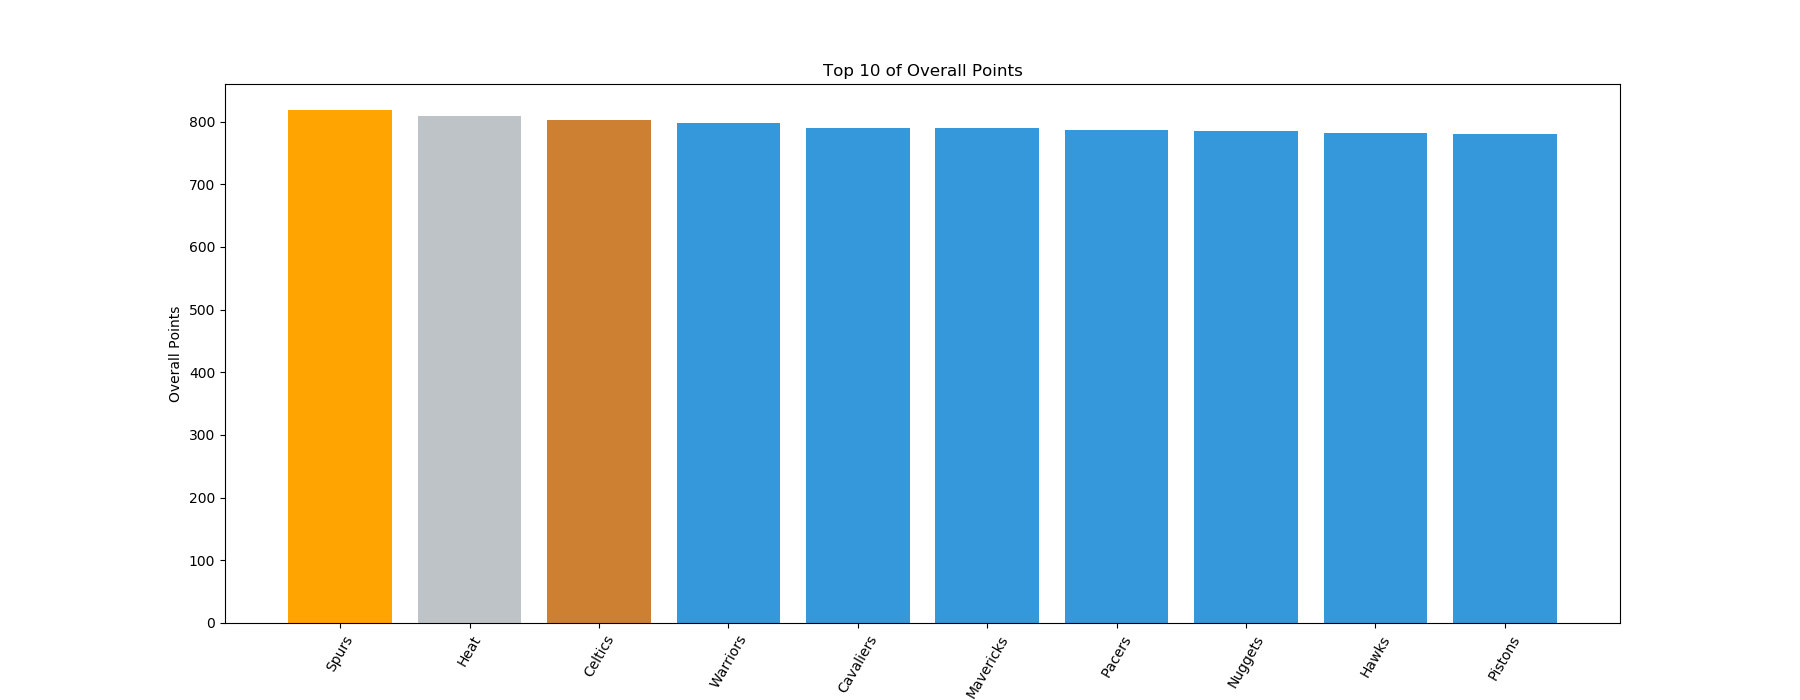
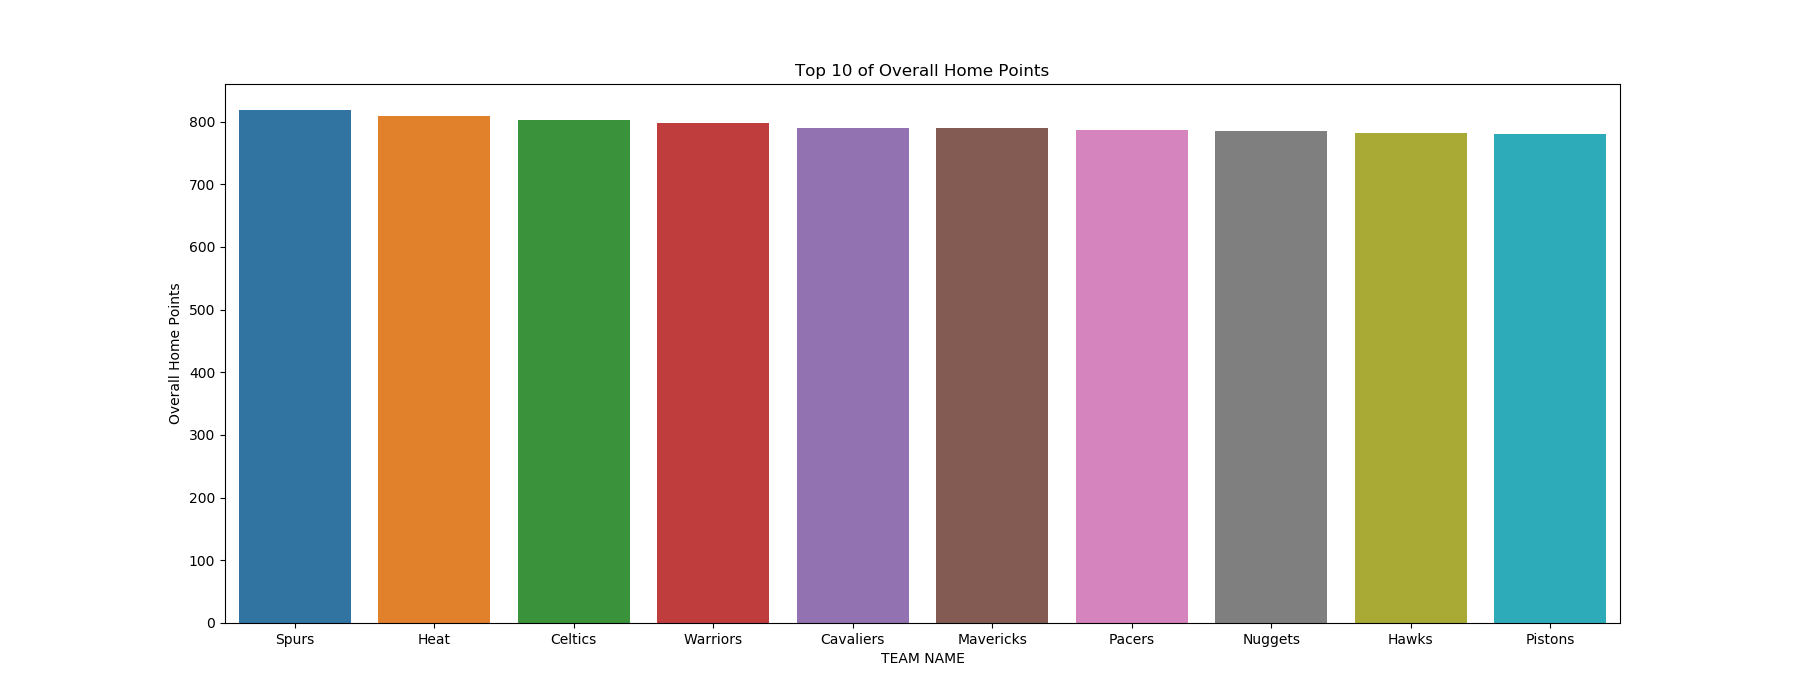
Update

diff --git a/DataVisualization/team_stats.py b/DataVisualization/team_stats.py
@@ -27,39 +27,39 @@ print(trans)
 games_est["HOME_TEAM_ID"] = games_est["HOME_TEAM_ID"].replace(trans)
 games_est["VISITOR_TEAM_ID"] = games_est["VISITOR_TEAM_ID"].replace(trans)
 
-def team_stats(stat, column, label_col=None, max_plot=5):
+def team_stats(df, column, label_col=None, max_plot=5):
     # Plotting function for the main statistical categories in games.csv
     # Draws top-10 teams for the given stat_category since 2004
     # Argument 'stat' refers to the exact names of the labels of games.csv
 
     # Select which category to study further.
-    team_cat = np.where(games[stat] == 1, games['HOME_TEAM_ID'], games['VISITOR_TEAM_ID'])
-    team_cat = pd.DataFrame(team_cat, columns=['TEAM_ID'])
-    team_cat = team_cat.merge(teams[['TEAM_ID', 'NICKNAME']], on='TEAM_ID')[
-        'NICKNAME'].value_counts().to_frame().reset_index()
-    team_cat.columns = ['TEAM NAME', column]
-    print(team_cat)
+    # team_cat = np.where(games[stat] == 1, games['HOME_TEAM_ID'], games['VISITOR_TEAM_ID'])
+    # team_cat = pd.DataFrame(team_cat, columns=['TEAM_ID'])
+    # team_cat = team_cat.merge(teams[['TEAM_ID', 'NICKNAME']], on='TEAM_ID')[
+    #     'NICKNAME'].value_counts().to_frame().reset_index()
+    # team_cat.columns = ['TEAM NAME', column]
+    # print(team_cat)
 
-    top_df = team_cat.sort_values(column, ascending=False).head(max_plot)
+    top_df = df.sort_values(column, ascending=False).head(max_plot)
     height = top_df[column]
     if label_col is None:
         x = top_df.index
     else:
         x = top_df[label_col]
     gold, silver, bronze, other = ('#FFA400', '#bdc3c7', '#cd7f32', '#3498db')
-    # colors = [gold if i == 0 else silver if i == 1 else bronze if i == 2 else other for i in range(0, len(top_df))]
+    colors = [gold if i == 0 else silver if i == 1 else bronze if i == 2 else other for i in range(0, len(top_df))]
     fig, ax = plt.subplots(figsize=(18, 7))
-    # ax.bar(x, height, color=colors)
-    # plt.xticks(x, x, rotation=60)
+    ax.bar(x, height, color=colors)
+    plt.xticks(x, x, rotation=60)
     plt.xlabel(label_col)
     plt.ylabel(column)
     plt.title(f'Top {max_plot} of {column}')
-    # plt.show()
-    ax = sns.barplot(x, height)
-    # for i, (value, name) in enumerate(zip(team_cat, team_cat.columns)):
-    #     ax.text(value, i - .05, f'{value:,.0f}', size=10, ha='left', va='center')
-    ax.set(xlabel=label_col, ylabel=column)
     plt.show()
+    # ax = sns.barplot(x, height)
+    # # for i, (value, name) in enumerate(zip(team_cat, team_cat.columns)):
+    # #     ax.text(value, i - .05, f'{value:,.0f}', size=10, ha='left', va='center')
+    # ax.set(xlabel=label_col, ylabel=column)
+    # plt.show()
 
 # Maybe process some Team overall stats as wins,losses etc.
 # winning_teams = np.where(games['HOME_TEAM_WINS'] == 1, games['HOME_TEAM_ID'], games['VISITOR_TEAM_ID'])
@@ -68,10 +68,10 @@ def team_stats(stat, column, label_col=None, max_plot=5):
 # winning_teams.columns = ['TEAM NAME', 'Number of wins']
 # # print(winning_teams)
 #
-# high_scoring_teams = np.where(games['PTS_home'] == 1, games['HOME_TEAM_ID'], games['VISITOR_TEAM_ID'])
-# high_scoring_teams = pd.DataFrame(high_scoring_teams, columns=['TEAM_ID'])
-# high_scoring_teams = high_scoring_teams.merge(teams[['TEAM_ID', 'NICKNAME']], on='TEAM_ID')['NICKNAME'].value_counts().to_frame().reset_index()
-# high_scoring_teams.columns = ['TEAM NAME', 'Overall Points']
+high_scoring_teams = np.where(games['AST_home'] == 1, games['HOME_TEAM_ID'], games['VISITOR_TEAM_ID'])
+high_scoring_teams = pd.DataFrame(high_scoring_teams, columns=['TEAM_ID'])
+high_scoring_teams = high_scoring_teams.merge(teams[['TEAM_ID', 'NICKNAME']], on='TEAM_ID')['NICKNAME'].value_counts().to_frame().reset_index()
+high_scoring_teams.columns = ['TEAM NAME', 'Overall Points']
 
 
     # sns.boxplot(x="VISITOR_TEAM_ID", y="PTS_away", data=games_est)
@@ -106,6 +106,6 @@ def team_stats(stat, column, label_col=None, max_plot=5):
     # plt.ylabel("REB GRABBED ")
     # plt.show()
 
-team_stats(stat='HOME_TEAM_WINS', column='Number of wins', label_col='TEAM NAME', max_plot=10)
-# team_stats(stat='PTS_home', column='Overall Home Points', label_col='TEAM NAME', max_plot=10)
-# team_stats(stat='PTS_away', column='Overall Away Points', label_col='TEAM NAME', max_plot=10)
+# team_stats(hi, column='Number of wins', label_col='TEAM NAME', max_plot=10)
+team_stats(high_scoring_teams, column='Overall Points', label_col='TEAM NAME', max_plot=10)
+# team_stats(stat='REB_home', column='Overall Home Rebounds', label_col='TEAM NAME', max_plot=10)

diff --git a/DataVisualization/histograms.py b/DataVisualization/histograms.py
@@ -1,0 +1,71 @@
+import pandas as pd
+import matplotlib.pyplot as plt
+import numpy as np
+import seaborn as sns
+
+# Dataframes - dfs, games.csv is interesting enough in combination with the others that have already been used
+games_details = pd.read_csv('../Data/games_details.csv')
+games = pd.read_csv('../Data/games.csv')
+teams = pd.read_csv('../Data/teams.csv')
+
+sns.set_palette("rocket")
+
+plt.hist(games["PTS_home"],bins = int(np.sqrt(len(games["PTS_home"]))))
+plt.xlabel("Number of points scored by HOME TEAM")
+plt.ylabel("Number of games ")
+plt.show()
+mean_ptsh = np.mean(games["PTS_home"])
+std_ptsh=np.std(games["PTS_home"])
+
+print ("mean:",mean_ptsh,"std:",std_ptsh)
+
+plt.hist(games["PTS_away"],bins = int(np.sqrt(len(games["PTS_away"]))))
+plt.xlabel("Number of points scored by AWAY TEAM")
+plt.ylabel("Number of games ")
+plt.show()
+mean_ptsa = np.mean(games["PTS_away"])
+std_ptsa=np.std(games["PTS_away"])
+
+print ("mean:",mean_ptsa,"std:",std_ptsa)
+
+
+plt.hist(games["AST_home"],bins = int(np.sqrt(len(games["AST_home"]))))
+plt.xlabel("Number of assist made by HOME TEAM")
+plt.ylabel("Number of games ")
+plt.show()
+
+mean_asth = np.mean(games["AST_home"])
+std_asth=np.std(games["AST_home"])
+
+print ("mean:",mean_asth,"std:",std_asth)
+
+plt.hist(games["AST_away"],bins = int(np.sqrt(len(games["AST_away"]))))
+plt.xlabel("Number of assist made by AWAY TEAM")
+plt.ylabel("Number of games ")
+plt.show()
+
+mean_asta = np.mean(games["AST_away"])
+std_asta=np.std(games["AST_away"])
+
+print ("mean:",mean_asta,"std:",std_asta)
+
+
+plt.hist(games["REB_home"],bins = int(np.sqrt(len(games["REB_home"]))))
+plt.xlabel("Number of rebounds taken by HOME TEAM")
+plt.ylabel("Number of games ")
+plt.show()
+
+mean_rebh = np.mean(games["REB_home"])
+std_rebh=np.std(games["REB_home"])
+
+print ("mean:",mean_rebh,"std:",std_rebh)
+
+plt.hist(games["REB_away"],bins = int(np.sqrt(len(games["REB_away"]))))
+plt.xlabel("Number of rebounds taken by AWAY TEAM")
+plt.ylabel("Number of games ")
+plt.show()
+
+mean_reba = np.mean(games["REB_away"])
+std_reba=np.std(games["REB_away"])
+
+print ("mean:",mean_reba,"std:",std_reba)

diff --git a/DataVisualization/BasicSteps.py b/DataVisualization/BasicSteps.py
@@ -11,10 +11,10 @@ games_details.drop(['GAME_ID', 'TEAM_ID', 'PLAYER_ID', 'START_POSITION', 'COMMEN
 games_details = games_details.dropna()
 
 
-plt.figure(figsize=(14, 7))
-sns.heatmap(games_details.corr(), cmap='coolwarm', annot=True)
-sns.heatmap(games.corr(), cmap='coolwarm', annot=True)
-sns.heatmap(teams.corr(), cmap='coolwarm', annot=True)
+# plt.figure(figsize=(14, 7))
+# sns.heatmap(games_details.corr(), cmap='coolwarm', annot=True)
+# sns.heatmap(games.corr(), cmap='coolwarm', annot=True)
+# sns.heatmap(teams.corr(), cmap='coolwarm', annot=True)
 
 
 df_tmp = games_details[['PLAYER_NAME', 'MIN']]
@@ -35,6 +35,7 @@ blind_plot(agg, column='Number of seconds played', label_col='PLAYER_NAME', max_
 blind_plot(winning_teams, column='Number of wins', label_col='TEAM NAME', max_plot=10)
 column_distribution(games_details, 10, 5)
 correlation_matrix(games_details, 8)
-# scatter_matrix(games_details, 20, 10)
+correlation_matrix(games, 8)
+scatter_matrix(games_details, 20, 10)
 
 

diff --git a/CHANGELOG.md b/CHANGELOG.md
@@ -120,3 +120,9 @@ Experimentation on team_stats.py .
 * Worked on my brief presentation that is coming next week (structure and flow). 
 
 * Beauty up our code files and improve some lines.
+
+### 2020-12-13
+* Created histograms.py for the main categories of the project. It is about visualizing overall team statistics.
+Correlations too(sort of) but need improvements.
+
+* Finished my presentation and got ready! 
